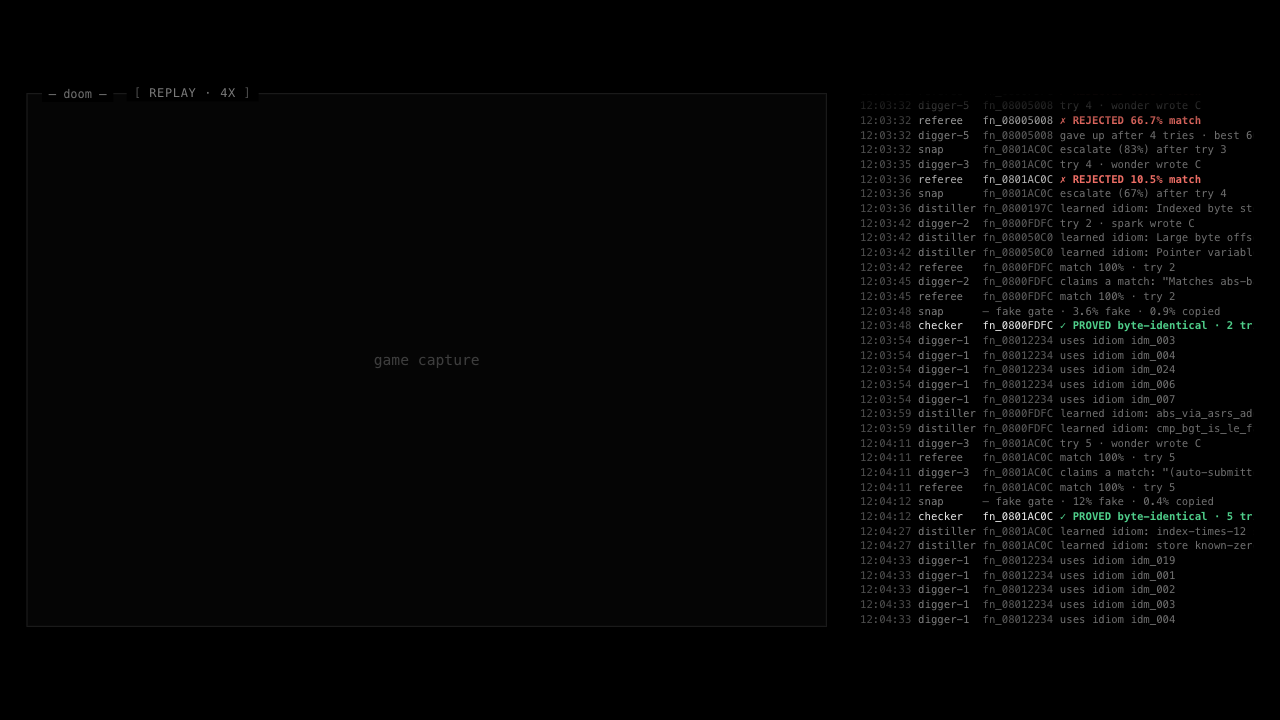
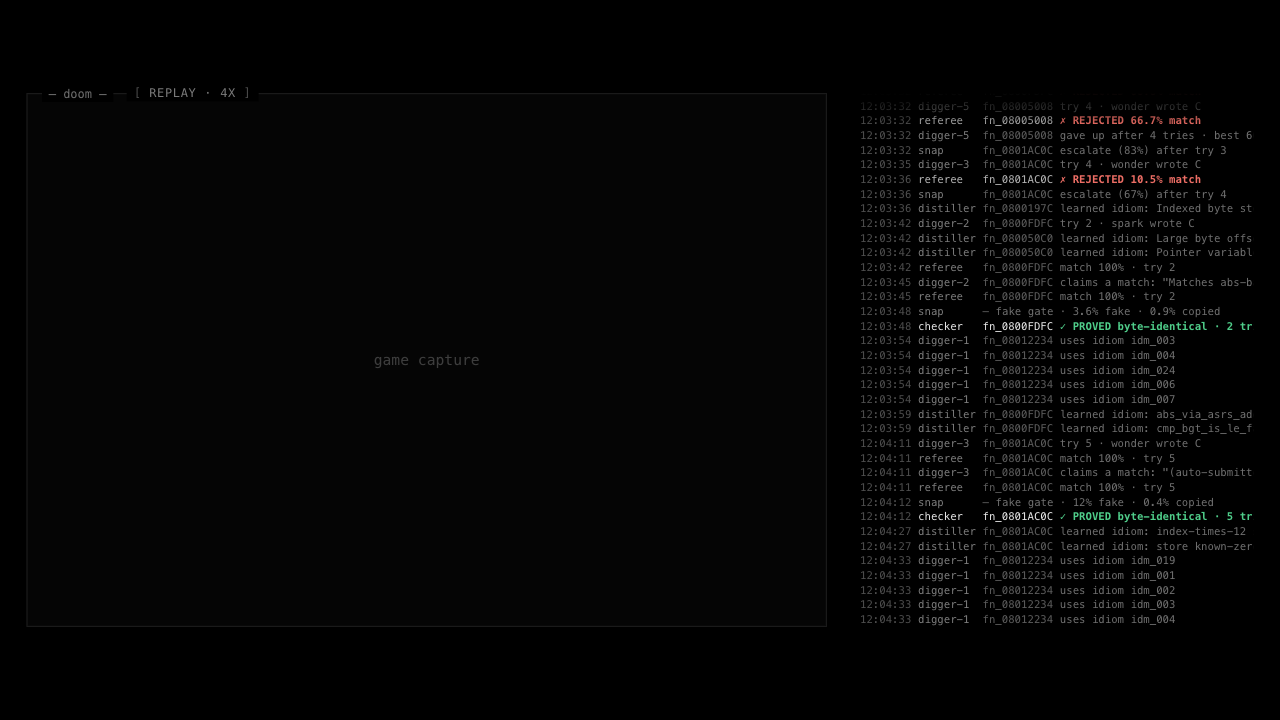
stage: the machine log scrolls
Wheel or trackpad scrolls back through up to 500 lines. The log follows new
lines while it is at the bottom; scrolled up, it keeps the same lines in view
as new ones arrive, and scrolling back to the bottom resumes following.

diff --git a/stage/src/scenes/log.ts b/stage/src/scenes/log.ts
@@ -6,7 +6,7 @@ import type { Ctx, Scene } from '../types.ts';
 import { h, esc } from '../types.ts';
 import { gameTotal } from './common.ts';
 
-const RAW = 60; // lines rendered; the column shows the newest that fit
+const RAW = 500; // lines kept on screen; the column scrolls
 
 export class LogScene implements Scene {
   id = 'log' as const;
@@ -29,13 +29,18 @@ export class LogScene implements Scene {
     const total = gameTotal(ctx);
     const tail = s.raw.slice(-RAW);
     const last = tail[tail.length - 1];
-    const key = `${s.matched.length}/${total}|${s.raw.length}|${last?.ts}|${last?.text}`;
+    const key = `${s.matched.length}/${total}|${s.events}|${s.raw.length}|${last?.ts}|${last?.text}`;
     if (key === this.memo) return;
     this.memo = key;
-    // the machine log: newest at the bottom, the column clips the oldest at the top like a terminal
+    // the machine log: newest at the bottom; it follows new lines unless someone scrolled up to read
     const log = this.el.querySelector('[data-k="log"]') as HTMLElement;
+    const pinned = log.scrollHeight - log.scrollTop - log.clientHeight < 30;
+    const fromBottom = log.scrollHeight - log.scrollTop;
     log.innerHTML = tail.length
       ? tail.map((l) => `<li class="${l.kind}"><span class="t">${l.time}</span><span class="w">${esc(l.who)}</span><span class="f">${esc(l.fn)}</span><span class="x">${esc(l.text)}</span></li>`).join('')
       : '<li class="dim"><span class="x">waiting for events…</span></li>';
+    // pinned: stay on the newest line; scrolled up: keep the same lines in view as new ones arrive
+    log.scrollTop = pinned ? log.scrollHeight : log.scrollHeight - fromBottom;
+    log.classList.toggle('back', !pinned);
   }
 }

diff --git a/stage/src/state.ts b/stage/src/state.ts
@@ -82,7 +82,7 @@ export type State = {
   lastChecked: Checked | null; // newest claim the Checker re-ran
   fakes: FakeRejected[]; // fakematch.rejected: bytes matched but the Checker refused it (contract v1.1)
   modelsUsed: Record<string, number>; // attempts per Muse model
-  raw: RawLine[]; // the machine log: one line per real event (rawlog.ts), last 200
+  raw: RawLine[]; // the machine log: one line per real event (rawlog.ts), last 500
   judge: Judge; // the judgment rail: sponsor lines (judgment.ts)
 };
 
@@ -142,7 +142,7 @@ export function apply(s: State, e: Ev): Effect[] {
   if (e.type === 'fixture') { s.fixture = true; return fx; }
   s.events++;
   const rl = rawLine(e);
-  if (rl) { s.raw.push(rl); if (s.raw.length > 200) s.raw.shift(); }
+  if (rl) { s.raw.push(rl); if (s.raw.length > 500) s.raw.shift(); }
   if (t != null) {
     if (s.t0 == null) s.t0 = t;
     if (s.tNow == null || t > s.tNow) s.tNow = t;

diff --git a/stage/src/scenes/log.css b/stage/src/scenes/log.css
@@ -108,3 +108,10 @@ body.obs .lg-game .ttl { display: none; }
 .stage[data-scene='log'] #mark { top: 128px; left: 190px; background: #000; padding: 0 10px; font-size: 18px; line-height: 24px; }
 .lg-raw li { height: 22px; } .lg-raw li .w { vertical-align: top; }
 .lg-raw { -webkit-mask-image: linear-gradient(to bottom, transparent 0, #000 48px); mask-image: linear-gradient(to bottom, transparent 0, #000 48px); }
+
+/* scrollable: wheel or trackpad goes back through the log; the newest line stays at the bottom */
+.lg-raw { overflow-y: auto; justify-content: flex-start; scrollbar-width: thin; scrollbar-color: #2a2a2a transparent; overscroll-behavior: contain; }
+.lg-raw > li:first-child { margin-top: auto; }
+.lg-raw::-webkit-scrollbar { width: 6px; }
+.lg-raw::-webkit-scrollbar-thumb { background: #2a2a2a; }
+.lg-raw.back { -webkit-mask-image: none; mask-image: none; }
